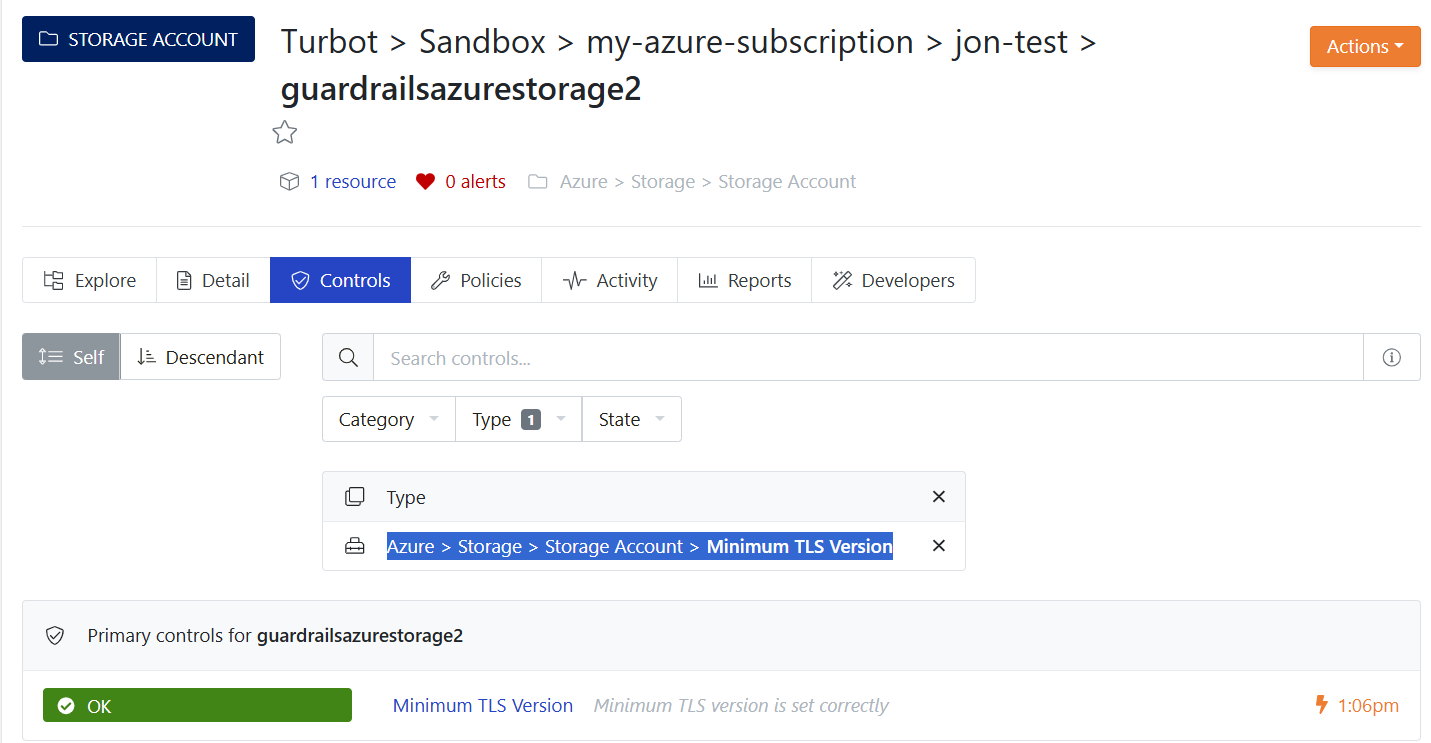
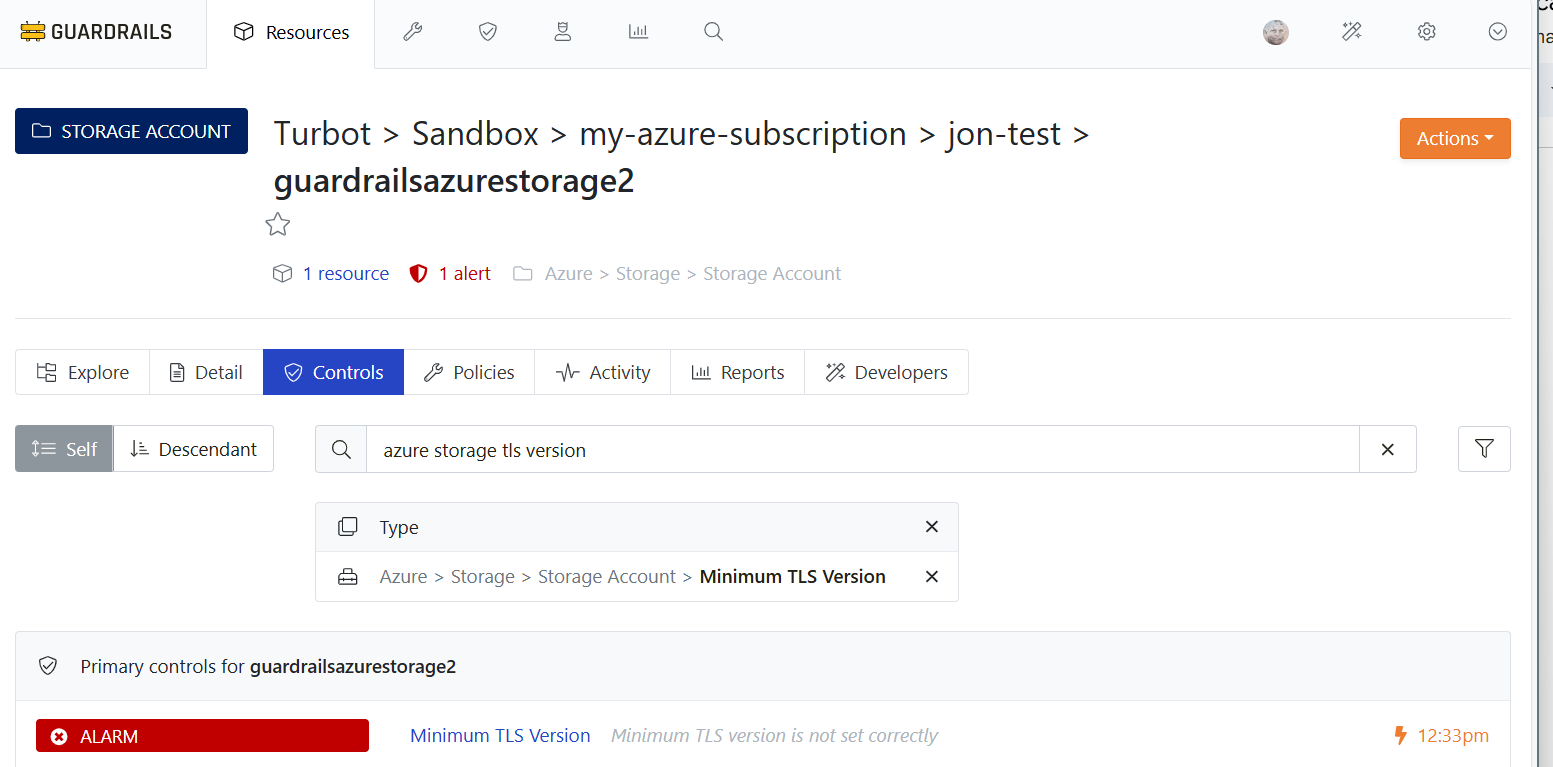
add azure send-alert-to-email

diff --git a/docs/runbooks/getting-started-azure/send-alert-to-email/index.md b/docs/runbooks/getting-started-azure/send-alert-to-email/index.md
@@ -1,0 +1,86 @@
+---
+title: Send an Alert to Email
+sidebar_label: Send an Alert to Email
+---
+
+
+# Send an Alert to Email
+
+**Prerequisites**: 
+
+- [Connect an Azure Account to Guardrails](/guardrails/docs/runbooks/getting-started-azure/connect-a-subscription/)
+- [Observe Azure Resource Activity](/guardrails/docs/runbooks/getting-started-azure/observe-azure-activity/)
+- [Attach a Guardrails Policy](/guardrails/docs/runbooks/getting-started-azure/attach-a-policy/)
+- [Create a Static Exception to a Guardrails Azure Policy](/guardrails/docs/runbooks/getting-started-azure/create-static-exception/)
+- [Create a Calculated Exception to a Guardrails Azure Policy](/guardrails/docs/runbooks/getting-started-azure/create-calculated-exception/)
+
+
+In [the previous runbook](/guardrails/docs/runbooks/getting-started-azure/create-calculated-exception) we saw notifications happening in the Guardrails console. Now let’s see how to receive those messages in  email. 
+
+## Step 1: Enable your workspace for notifications
+
+  
+To enable notifications for your workspace, search top-level `Policies` for `turbot notifications` and click into the `Turbot > Notifications` policy type.  
+<p><img alt="azure_notifications_policy_type" src="/images/docs/guardrails/runbooks/getting-started-azure/send-alert-to-email/azure-notifications-policy-type.png"/></p><br/>  
+
+
+Open the `Settings`, click into the `Turbot > Notifications` setting, click `Edit`, switch to `Enabled`, and click `Update`.  
+<p><img alt="aws_start_6_update_turbot_notifications_setting" src="/images/docs/guardrails/runbooks/getting-started-azure/send-alert-to-email/aws-start-6-update-turbot-notifications-setting.png"/></p><br/>
+
+## Step 2: Create a notification rule
+
+Search top-level `Policies` for `rule-based routing`, click into the policy type `Turbot > Notifications > Rule-Based Routing`, and click `New Policy Setting`.  
+  
+Select `Turbot` as the resource. This policy must apply at that level.  
+  
+Enter this rule, along with one or more email addresses you want to notify.  
+  
+```yaml
+- rules: |
+          NOTIFY $.control.state:alarm
+  emails:
+  - you@yourcompany.com  
+```  
+<p><img alt="aws_start_6_create_notification_rule" src="/images/docs/guardrails/runbooks/getting-started-azure/send-alert-to-email/aws-start-6-create-notification-rule.png"/></p><br/>
+
+Click `Update`.  
+
+
+The rule will send an alert to the configured email address when any control enters the `Alarm` state.
+
+## Step 3: Trigger the notification rule
+
+At the end of [Create a calculated exception](/guardrails/docs/runbooks/getting-started-azure/create_calculated_exception), your test storage account – the one you tagged with `environment:development` – was in a `Skipped` state for TLS version. To verify, do a top-level search for the storage account, click into the resource, choose the `Controls` tab, and search for `azure storage tls version`.
+<p><img alt="azure_refind_storage_account_tls_version_control" src="/images/docs/guardrails/runbooks/getting-started-azure/send-alert-to-email/azure-refind-storage-account-tls-version-control.png"/></p><br/>
+
+Now, in the Azure portal, remove the `environment:development` tag. The calculated policy setting, which had evaluated to `Skip`, now evaluates to `Check: TLS 1.2`.  And because you left the storage account in a different state  – TLS v1.1  – the storage account’s control for versioning now transitions to `Alarm`.   
+<p><img alt="azure_observe_storage_account_in_alarm" src="/images/docs/guardrails/runbooks/getting-started-azure/send-alert-to-email/azure-observe-storage-account-in-alarm.png"/></p><br/>  
+
+
+## Step 4: Check email
+
+  
+Now check your email.
+<p><img alt="azure_view_email_notification" src="/images/docs/guardrails/runbooks/getting-started-azure/send-alert-to-email/azure-view-email-notification.png"/></p><br/>
+
+  
+The alarm reported in the Guardrails console also appears in your inbox. You can alternatively configure Guardrails to send alerts to [Slack]([guardrails/docs/guides/notifications/templates#example-slack-template](https://turbot.com/guardrails/docs/guides/notifications/templates#example-slack-template)) or [MS Teams](/guardrails/docs/guides/notifications/templates#example-ms-teams-template).
+
+Now that we have successfully alerted on controls, you can repeat this exercise with other Policy Packs from the [Guardrails Hub](hub.guardrails.com). 
+
+In the [next runbook](/guardrails/docs/runbooks/getting-started-azure/apply-quick-action) you’ll learn how to configure for [Quick Actions]([/guardrails/docs/guides/quick-actions](https://turbot.com/guardrails/docs/guides/quick-actions#enabling-quick-actions)) so you can, for example, correct the TLS version for the storage account that’s now in the `Alarm` state and make it green.
+
+
+## Progress tracker
+
+1. [Connect an Azure Account to Guardrails](/guardrails/docs/runbooks/getting-started-azure/connect-a-subscription/)
+
+2. [Observe Azure Resource Activity](/guardrails/docs/runbooks/getting-started-azure/observe-azure-activity/)
+
+3. [Attach a Guardrails Policy](/guardrails/docs/runbooks/getting-started-azure/attach-a-policy/)
+
+4. [Create a Static Exception to a Guardrails Azure Policy](/guardrails/docs/runbooks/getting-started-azure/create-static-exception/)
+
+5. [Create a Calculated Exception to a Guardrails Azure Policy](/guardrails/docs/runbooks/getting-started-azure/create-calculated-exception/)
+
+6. **Send an Alert to Email**

diff --git a/docs/runbooks/getting-started-azure/create-calculated-exception/index.md b/docs/runbooks/getting-started-azure/create-calculated-exception/index.md
@@ -14,7 +14,7 @@ sidebar_label: Create a calculated exception to a Guardrails Azure policy
 - [Create a Static Exception to a Guardrails Azure Policy](/guardrails/docs/runbooks/getting-started-azure/create-static-exception/)
 
 
-In the [previous runbook](guardrails/docs/runbooks/getting-started-azure/create_static_exception) we showed how to create a static exception. In this one, we’ll show how to make exceptions dynamically, based on resource tags. Start by creating another test storage account (we’ll use `guardrailsazurestorage2`), and set the TLS version to 1.1 so it won’t comply with policy that requires version 1.2. Don’t set any tags on the storage account yet.
+In the [previous runbook](guardrails/docs/runbooks/getting-started-azure/create_static_exception) we showed how to create a static exception. In this one, we’ll show how to make exceptions dynamically, based on resource tags. Start by creating another test storage account (we’ll use `guardrailsazurestorage2`). , and set the TLS version to 1.1 so it won’t comply with policy that requires version 1.2. Don’t set any tags on the storage account yet.
 
 ## Step 1: Go to the Azure > Storage > Storage Account > Minimum TLS Version policy
 
@@ -86,7 +86,7 @@ To check the status of the second storage account, do a top-level search for it.
 Click into the resource, choose the `Controls` tab, and set the `Type` filter to `Azure > Storage > Storage Account > Minimum TLS Version`.  
 <p><img alt="azure_filter_storage_account_to_tls_version_policy_type" src="/images/docs/guardrails/runbooks/getting-started-azure/create-calculated-exception/azure-filter-storage-account-to-tls-version-policy-type.png"/></p><br/>
 
-The storage account is `OK` because the default TLS version complies with policy. Now, tag it with `environment:development` to activate the calculated policy you created in this runbook.  
+The storage account is in `Alarm` because the TLS version you set, 1.1, does not  comply with policy. Now, tag it with `environment:development` to activate the calculated policy you created in this runbook.  
 <p><img alt="azure_tag_the_storage_account" src="/images/docs/guardrails/runbooks/getting-started-azure/create-calculated-exception/azure-tag-the-storage-account.png"/></p><br/>  
   
 
@@ -111,3 +111,5 @@ In the [next runbook](/guardrails/docs/runbooks/getting-started-azure/send-alert
 4. [Create a Static Exception to a Guardrails Azure Policy](/guardrails/docs/runbooks/getting-started-azure/create-static-exception/)
 
 5. **Create a Calculated Exception to a Guardrails Azure Policy**
+
+6. [Send an Alert to Email](/guardrails/docs/runbooks/getting-started-azure/send-alert-to-email/)

diff --git a/docs/runbooks/getting-started-azure/connect-a-subscription/index.md b/docs/runbooks/getting-started-azure/connect-a-subscription/index.md
@@ -144,3 +144,5 @@ When the discovery process is complete, navigate to your imported subscription a
 4. [Create a Static Exception to a Guardrails Azure Policy](/guardrails/docs/runbooks/getting-started-azure/create-static-exception/)
 
 5. [Create a Calculated Exception to a Guardrails Azure Policy](/guardrails/docs/runbooks/getting-started-azure/create-calculated-exception/)
+
+6. [Send an Alert to Email](/guardrails/docs/runbooks/getting-started-azure/send-alert-to-email/)

diff --git a/docs/runbooks/getting-started-azure/attach-a-policy/index.md b/docs/runbooks/getting-started-azure/attach-a-policy/index.md
@@ -67,3 +67,5 @@ You can override policies at any level. In the [next runbook](/guardrails/docs/r
 4. [Create a Static Exception to a Guardrails Azure Policy](/guardrails/docs/runbooks/getting-started-azure/create-static-exception/)
 
 5. [Create a Calculated Exception to a Guardrails Azure Policy](/guardrails/docs/runbooks/getting-started-azure/create-calculated-exception/)
+
+6. [Send an Alert to Email](/guardrails/docs/runbooks/getting-started-azure/send-alert-to-email/)

diff --git a/docs/runbooks/getting-started-azure/observe-azure-activity/index.md b/docs/runbooks/getting-started-azure/observe-azure-activity/index.md
@@ -64,3 +64,5 @@ Next we’ll explore [how to set a policy](/guardrails/docs/runbooks/getting-sta
 4. [Create a Static Exception to a Guardrails Azure Policy](/guardrails/docs/runbooks/getting-started-azure/create-static-exception/)
 
 5. [Create a Calculated Exception to a Guardrails Azure Policy](/guardrails/docs/runbooks/getting-started-azure/create-calculated-exception/)
+
+6. [Send an Alert to Email](/guardrails/docs/runbooks/getting-started-azure/send-alert-to-email/)

diff --git a/docs/runbooks/getting-started-azure/create-static-exception/index.md b/docs/runbooks/getting-started-azure/create-static-exception/index.md
@@ -74,3 +74,5 @@ In the [next runbook](/guardrails/docs/runbooks/getting-started-azure/create-cal
 4. **Create a Static Exception to a Guardrails Azure Policy**
 
 5. [Create a Calculated Exception to a Guardrails Azure Policy](/guardrails/docs/runbooks/getting-started-azure/create-calculated-exception/)
+
+6. [Send an Alert to Email](/guardrails/docs/runbooks/getting-started-azure/send-alert-to-email/)
